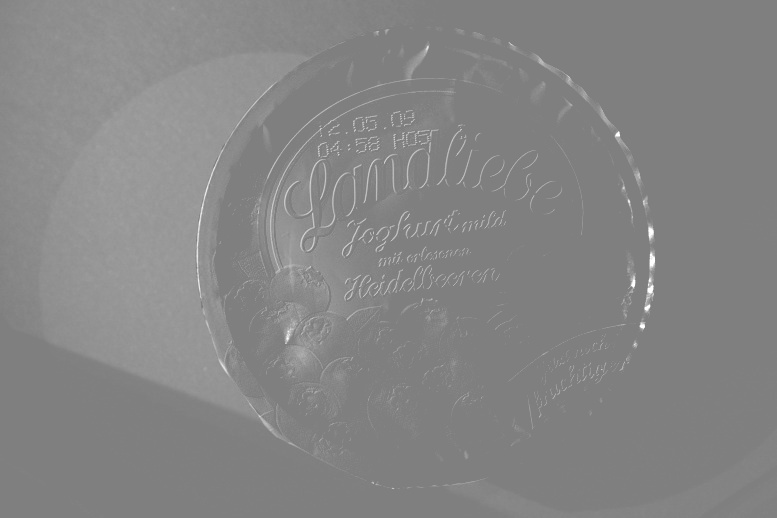
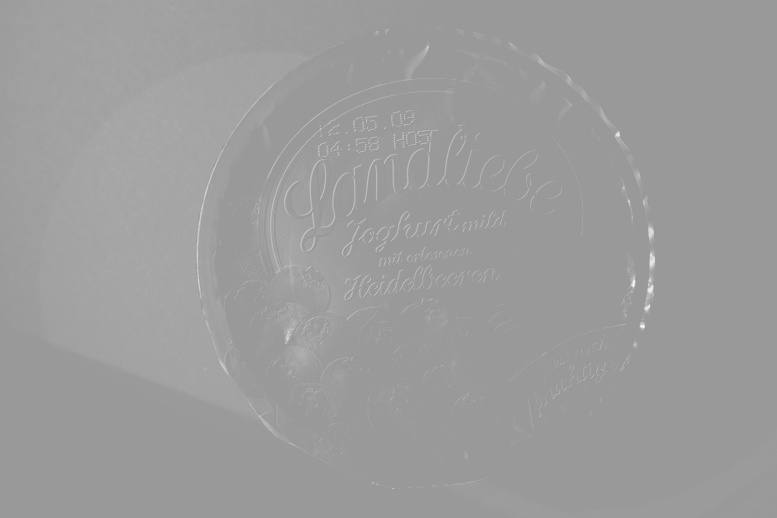
better ligth up

diff --git a/a1/src/aufg1.py b/a1/src/aufg1.py
@@ -5,13 +5,24 @@
 import cv2
 import numpy as np
 
+LIGHT_UP_FACTOR = 0.6
+
+def remap(img,min,max):
+    '''s
+    mapping the min and max pixel value to min , max
+    '''
+
+    factor = (max - min) / (img.max()-img.min())
+    return (img * factor + min).astype(np.uint8)
+
 def light_up_img(img,factor):
     '''
     ligth up a image with a factor
-    img = (source) Image
+    img = (source) Image 
     factor = ligth up factor
     '''
-    return cv2.add(img,np.full(img.shape,np.uint8(255*factor)))
+    return remap(img,255*factor,255)
+
 
 def calc_pix_luminance(left,right,top):
     '''
@@ -54,8 +65,7 @@ def calc_bias_white(left,right):
     left = left Img (grey)
     right = right Img (grey)
     '''
-
-    return light_up_img(calc_bias(left,right),0.5)
+    return light_up_img(calc_bias(left,right),LIGHT_UP_FACTOR)
             
 def clac_pix_brightness(left,right,top):
     '''
@@ -94,7 +104,7 @@ def clac_brightness_white(left,right,top):
     top = top Img (grey)
     '''
 
-    return light_up_img(clac_brightness(left,right,top),0.5)
+    return light_up_img(clac_brightness(left,right,top),LIGHT_UP_FACTOR)
 
 def main():
     img_left = cv2.imread("../resource/cover_left.JPG",0)
